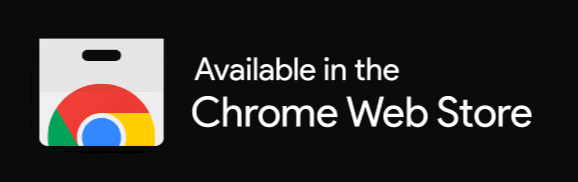
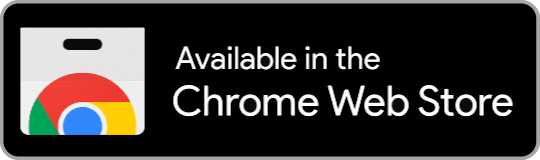
updates

Changed region(s): [[0.0, 0.0, 1.0, 1.0], [0.3259, 0.2812, 0.7111, 0.4688]]

diff --git a/assets/dictTest.html b/assets/dictTest.html
@@ -5,7 +5,6 @@
   <meta name="viewport" content="width=device-width, initial-scale=1.0">
   <title>DPD Response Speed Test</title>
   <style>
-    /* Ваши стили остаются без изменений */
     body {
       font-family: 'Courier New', monospace;
       max-width: 900px;
@@ -123,8 +122,8 @@
 
         const text = await response.text();
         const terms = text.split('\n')
-        .map(t => t.trim())
-        .filter(t => t.length > 0);
+          .map(t => t.trim())
+          .filter(t => t.length > 0);
 
         if (terms.length === 0) {
           throw new Error('File is empty');
@@ -156,17 +155,18 @@
     // Добавление сообщения в вывод
     function addToOutput(message, className = '') {
       const line = document.createElement('div');
-      line.innerHTML = message; // вместо textContent
+      line.innerHTML = message;
       line.className = className;
       outputEl.appendChild(line);
       outputEl.scrollTop = outputEl.scrollHeight;
     }
+
     // Очистка вывода
     function clearOutput() {
       outputEl.innerHTML = '';
     }
 
-    // Функция проверки доступности через HEAD запрос
+    // Функция проверки доступности
     async function checkEndpoint(lang, path, baseUrl) {
       const targetUrl = `${baseUrl}${path}?q=${urlencode(term)}`;
       const startTime = performance.now();
@@ -174,23 +174,25 @@
       addToOutput(`Testing ${lang} at <a href="${targetUrl}">${baseUrl}</a>`, 'info');
 
       try {
-        // Пробуем HEAD запрос сначала
-        const headResponse = await fetch(targetUrl, {
-          method: 'HEAD',
-          mode: 'no-cors',
-          cache: 'no-store'
-        });
-
-        // Затем GET запрос
-        const getStartTime = performance.now();
-        const getResponse = await fetch(targetUrl, {
+        // Используем GET запрос без no-cors, чтобы видеть реальный статус ответа
+        const response = await fetch(targetUrl, {
           method: 'GET',
-          mode: 'no-cors',
           cache: 'no-store'
         });
 
         const totalTime = (performance.now() - startTime) / 1000;
         const timestamp = getClientTimestamp();
+
+        if (!response.ok) {
+          throw new Error(`HTTP error! status: ${response.status}`);
+        }
+
+        // Проверяем, что ответ содержит контент (не 204 и т.д.)
+        const content = await response.text();
+        if (!content) {
+          throw new Error('Empty response content');
+        }
+
         const resultLine = `${timestamp} ${lang} <b>OK</b> <b>${totalTime.toFixed(3)}s</b> ${term} ${targetUrl}`;
         addToOutput(resultLine, 'success');
 
@@ -204,7 +206,9 @@
 
         let errorMsg = error.message;
         if (errorMsg.includes('Failed to fetch')) {
-          errorMsg = 'Network error (CORS or server down)';
+          errorMsg = 'Network error (server down or unreachable)';
+        } else if (errorMsg.includes('HTTP error')) {
+          errorMsg = `Server error (${errorMsg.replace('HTTP error! status: ', '')})`;
         }
 
         const errorLine = `${timestamp} ${lang} <b>FAIL</b> <b>${responseTime.toFixed(3)}s</b> ${term} ${targetUrl} (${errorMsg})`;
@@ -231,13 +235,12 @@
       // Выбираем случайный термин из доступных
       term = availableTerms[Math.floor(Math.random() * availableTerms.length)];
       addToOutput(`Starting tests with term: <a target="_blank" href="https://dict.dhamma.gift/search_html?q=${term}">${term}</a>`, 'info');
-      //  addToOutput(`Source: ${availableTerms === defaultTerms ? 'default terms': 'sutta_words.txt'}`, 'info');
       addToOutput(`Your local time: ${getClientTimestamp()}`, 'info');
 
       try {
         // Определение базового URL
         let baseUrl = window.location.hostname === 'localhost'
-        ? "http://localhost:8880": "https://dict.dhamma.gift";
+          ? "http://localhost:8880" : "https://dict.dhamma.gift";
 
         // Выполнение проверок
         const results = [];
@@ -252,16 +255,13 @@
         const totalTests = results.length;
 
         statusEl.textContent = `Tests completed. Success: ${successCount}/${totalTests}`;
-        statusEl.className = successCount === totalTests ? 'success':
-        successCount > 0 ? 'warning': 'fail';
-
-        if (successCount < totalTests) {
-          addToOutput("\nNote: 'FAIL' may indicate CORS restrictions", 'warning');
-        }
+        statusEl.className = successCount === totalTests ? 'success' :
+                             successCount > 0 ? 'warning' : 'fail';
 
       } catch (error) {
         statusEl.textContent = `Error during testing: ${error.message}`;
         statusEl.className = 'fail';
+        console.error('Testing error:', error);
       } finally {
         testRunning = false;
         runTestBtn.disabled = false;

diff --git a/assets/common/keyFeatures.html b/assets/common/keyFeatures.html
@@ -17,6 +17,12 @@
 
     <meta name="description" content="Explore the key features of Dhamma.gift - your ultimate one-stop portal for accessing Pali texts, translations, and resources for studying Buddha's teachings, Suttas, Vinaya and Buddhist doctrine." />
     <meta name="keywords" content="Buddha, dhamma, pitaka, sutta, suttas, vinaya, patimokkha, pratimoksa, Buddhism, pali Canon, dharma">
+<style>
+img {
+  max-width: 200px;
+  height: auto;
+}
+</style>
 </head>
 <body>
   
@@ -55,6 +61,12 @@
     <h5>What initiatives make up Dhamma.gift?</h5>
 </div>
 <br>
+
+<div style="text-align: center; margin: 1em 0;">
+  <button id="installPWA" style="background: none; border: none; padding: 0; cursor: pointer;">
+    <img src="/assets/img/pwa-cta.png" alt="Install Dhamma.gift as an app" />
+  </button>
+</div>
 
 <h3>Dhamma.Gift</h3>
 <h4>A Dhamma multi-tool or one-window portal</h4>
@@ -106,6 +118,13 @@
 
 <h3>Dhamma.Gift Telegram Bot and Mini Apps</h3>
 <h4>Search Suttas and Pali Dictionary from any Telegram chat and group with Dhamma.gift Inline Bot</h4>
+
+<div style="text-align: center; margin: 1em 0;">
+  <a href="https://t.me/dgift_bot" target="_blank">
+    <img src="/assets/img/telegram-cta.png" alt="Open @dgift_bot in Telegram">
+  </a>
+</div>
+
 <ul>
     <li>Type in any chat or group <a href="https://t.me/dhammagift_bot">@Dhammagift_bot</a> or its short name <a href="https://t.me/dgift_bot" target="_blank">@Dgift_bot</a>, start typing the Pali word or text number you are interested in - the bot will show options and provide links to Reading/Search and Dictionary.</li>
     <li>Mini-Apps for instant access to Dhamma.gift and dictionary inside Telegram, Telegram Desktop or Telegram Web:
@@ -122,8 +141,16 @@
 <h4>Add Sutta Search and Pali Dictionary to any website in a couple of clicks</h4>
 <p>Install Browser Extensions to add dictionary lookup and instant search features from Dhamma.gift to any website:</p>
 <ul>
-    <li>Extension in <a href="https://chromewebstore.google.com/detail/dhammagift-search-and-wor/dnnogjdcmhbiobpnkhdbfnfjnjlikabd">Chrome Web Store</a></li>
-    <li>Extension in <a href="https://microsoftedge.microsoft.com/addons/detail/dhammagift-search-and-wo/aokegkhdaijkikbdocanadeghllhfmhj">Microsoft Edge Store</a></li>
+    <li>
+      <a href="https://chromewebstore.google.com/detail/dhammagift-search-and-wor/dnnogjdcmhbiobpnkhdbfnfjnjlikabd">
+        <img style="max-width:180px; margin-left:10px;" src="/assets/img/chrome-cta.png" alt="Download from Chrome Web Store">
+      </a>
+    </li>
+    <li>
+      <a href="https://microsoftedge.microsoft.com/addons/detail/dhammagift-search-and-wo/aokegkhdaijkikbdocanadeghllhfmhj">
+        <img src="/assets/img/edge-cta.png" alt="Download from Microsoft Edge Store">
+      </a>
+    </li>
     <li>Script for Tampermonkey: <a href="https://github.com/o28o/dictPlugin/blob/main/ExtentionMethod.md">Installation Guide</a></li>
 </ul>
 <br>
@@ -139,5 +166,32 @@
 <br>
 <br>
 <script src="/assets/js/dark-mode-switch/dark-mode-switch.js"></script>
+<script>
+  let deferredPrompt;
+
+  window.addEventListener('beforeinstallprompt', (e) => {
+    // Prevent automatic banner display
+    e.preventDefault();
+    deferredPrompt = e;
+
+    // Show the button
+    const installBtn = document.getElementById('installPWA');
+    installBtn.style.display = 'inline-block';
+
+    installBtn.addEventListener('click', () => {
+      if (deferredPrompt) {
+        deferredPrompt.prompt();
+        deferredPrompt.userChoice.then((choiceResult) => {
+          if (choiceResult.outcome === 'accepted') {
+            console.log('Installation accepted');
+          } else {
+            console.log('Installation declined');
+          }
+          deferredPrompt = null;
+        });
+      }
+    });
+  });
+</script>
 </body>
 </html>

diff --git a/assets/common/keyFeaturesRu.html b/assets/common/keyFeaturesRu.html
@@ -18,7 +18,7 @@
     <meta name="keywords" content="Будда, Buddha, Дхамма, Дхарма, Виная, поиск, Сутта, Сутты, Суттапитака, Винаяпитака, suttapitaka, vinayapitaka Пали, Палийский канон, буддизм, dhamma, sutta, Buddhism, pali Canon, патимоккха, пратимокша, patimokkha, pratimoksasutra">
     <meta name="description" content="Что такое Dhamma.gift? Ключевые особенности Dhamma.gift — ваш универсальный портал для доступа к пали-текстам, переводам и ресурсам для изучения учений Будды, Сутт, Винаи и буддийской доктрины. Найдите переводы и ссылки для изучения Дхаммы Будды.">
 <style>
-li img {
+img {
   max-width: 200px;
   height: auto;
 }
@@ -65,11 +65,14 @@ li img {
 </div>
 <br>
 
+
 <div style="text-align: center; margin: 1em 0;">
-  <a href="/pwa" target="_blank">
-    <img src="/assets/img/pwa-cta.png" alt="Установить как приложение Dhamma.gift (PWA)">
-  </a>
+  <button id="installPWA" style="background: none; border: none; padding: 0; cursor: pointer;">
+    <img src="/assets/img/pwa-cta.png" alt="Установить Dhamma.gift как приложение" />
+  </button>
 </div>
+
+
 
 <h3>Dhamma.Gift</h3>
 
@@ -156,7 +159,7 @@ li img {
 <ul>
 <li>
   <a href="https://chromewebstore.google.com/detail/dhammagift-search-and-wor/dnnogjdcmhbiobpnkhdbfnfjnjlikabd">
-    <img src="/assets/img/chrome-cta.png" alt="Скачать в Chrome Web Store">
+    <img style="max-width:180px; margin-left:10px;" src="/assets/img/chrome-cta.png" alt="Скачать в Chrome Web Store">
   </a>
 </li>
 <li>
@@ -181,5 +184,33 @@ li img {
 <br>
 <br>
 <script src="/assets/js/dark-mode-switch/dark-mode-switch.js"></script>
+<script>
+  let deferredPrompt;
+
+  window.addEventListener('beforeinstallprompt', (e) => {
+    // Предотвращаем автоматическое отображение баннера
+    e.preventDefault();
+    deferredPrompt = e;
+
+    // Показываем кнопку
+    const installBtn = document.getElementById('installPWA');
+    installBtn.style.display = 'inline-block';
+
+    installBtn.addEventListener('click', () => {
+      if (deferredPrompt) {
+        deferredPrompt.prompt();
+        deferredPrompt.userChoice.then((choiceResult) => {
+          if (choiceResult.outcome === 'accepted') {
+            console.log('Установка принята');
+          } else {
+            console.log('Установка отклонена');
+          }
+          deferredPrompt = null;
+        });
+      }
+    });
+  });
+</script>
+
 </body>
 </html>
